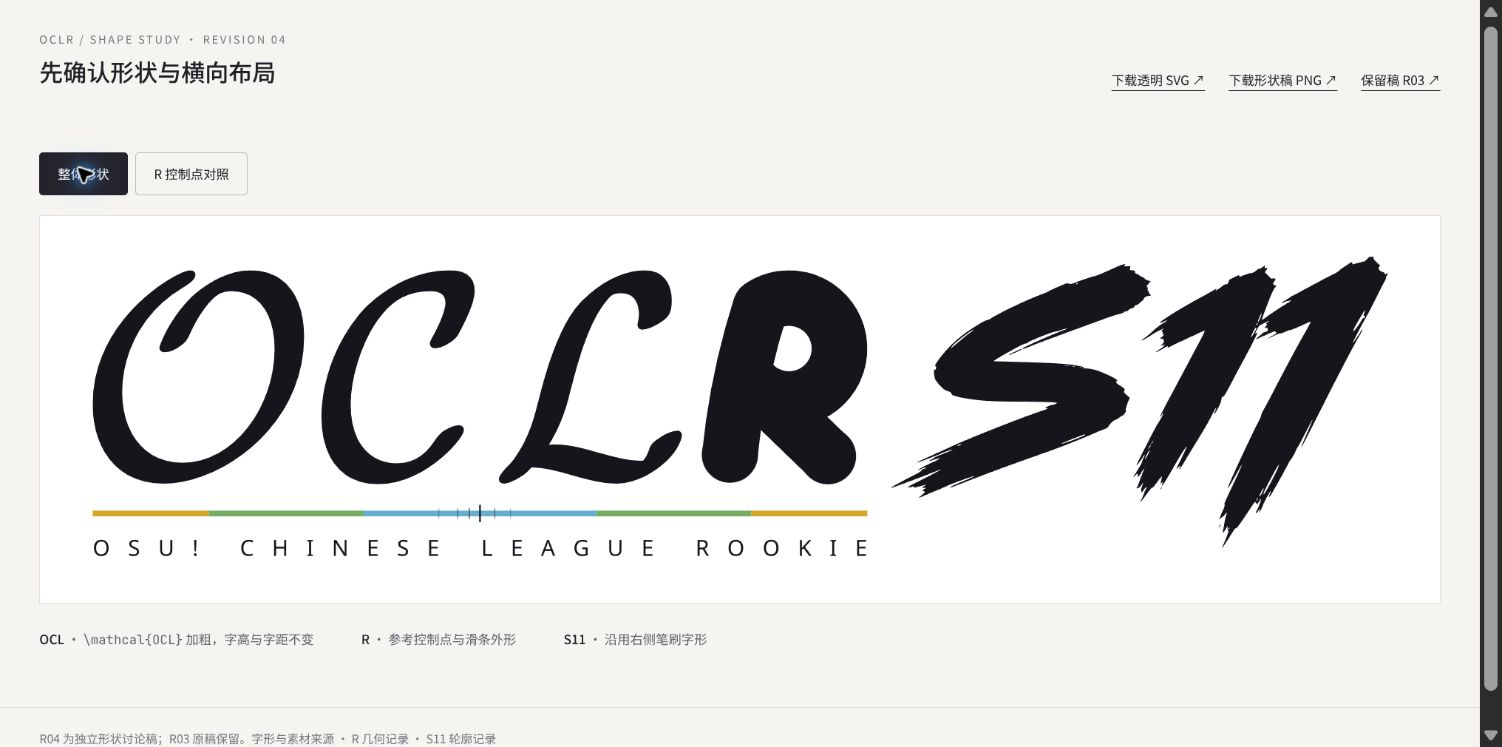
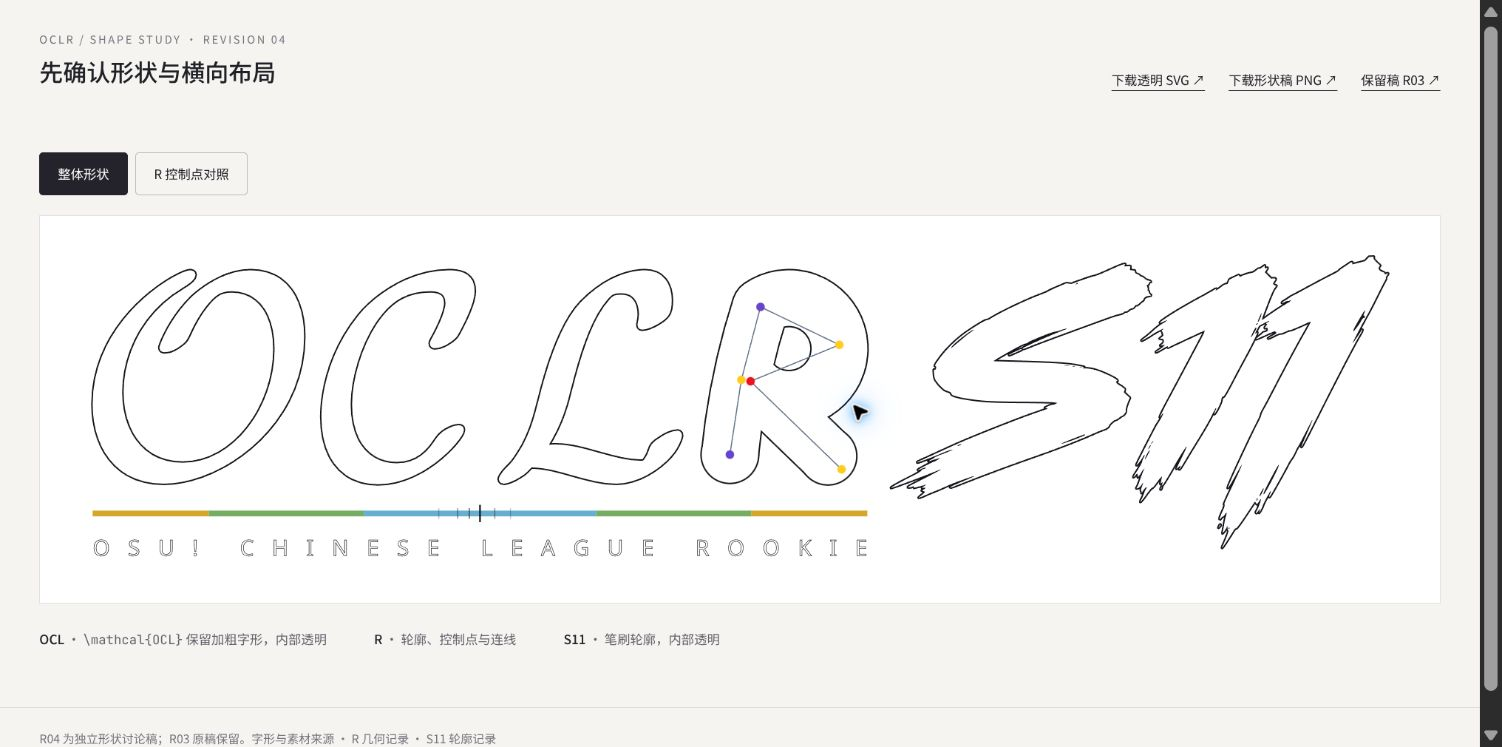
design(home): outline wordmark with transparent interiors and R handles

diff --git a/design/home-visual/revision-04/index.html b/design/home-visual/revision-04/index.html
@@ -16,8 +16,8 @@
   <main>
     <div class="controls" role="group" aria-label="预览内容"><button type="button" data-view="composition" aria-pressed="true">整体形状</button><button type="button" data-view="geometry" aria-pressed="false">R 控制点对照</button></div>
     <section id="composition" aria-label="整体形状">
-      <figure class="stage"><img src="shape-board.svg" width="1700" height="470" alt="单色 OCL 花体大写、参考滑条 R 与右侧笔刷 S11；准度条位于主字母与英文全名之间"></figure>
-      <div class="notes"><p><strong>OCL</strong> · <code>\mathcal{OCL}</code> 加粗，字高与字距不变</p><p><strong>R</strong> · 参考控制点与滑条外形</p><p><strong>S11</strong> · 沿用右侧笔刷字形</p></div>
+      <figure class="stage"><img src="oclr-s11-shapes.svg" width="1700" height="470" alt="透明内部的 OCL、R 与 S11 轮廓，R 显示六个控制点和连接线"></figure>
+      <div class="notes"><p><strong>OCL</strong> · <code>\mathcal{OCL}</code> 保留加粗字形，内部透明</p><p><strong>R</strong> · 轮廓、控制点与连线</p><p><strong>S11</strong> · 笔刷轮廓，内部透明</p></div>
     </section>
     <section id="geometry" class="hidden" aria-label="R 控制点对照">
       <div class="geometry-grid"><figure><img src="sources/r-reference.png" width="497" height="559" alt="用户提供的 R 滑条编辑器截图"><figcaption>参考截图</figcaption></figure><figure><img src="r-geometry-review.svg" width="497" height="559" alt="使用相同坐标重建的 R 滑条与六个控制点"><figcaption>同一坐标系的矢量重建</figcaption></figure></div>

diff --git a/design/home-visual/revision-04/compose.py b/design/home-visual/revision-04/compose.py
@@ -52,6 +52,57 @@ def asset(filename, name, x, y, height):
     return svg, w * height / h
 
 
+def outline_asset(svg, prefix, stroke_growth, circle_growth=0):
+    """Vector silhouette difference: transparent interiors, never a white cover.
+
+    Subtract the original union from its expanded union, so overlapping R
+    track/end caps don't introduce internal seams. Re-key both copies' IDs.
+    """
+    x, y, w, h = map(float, svg.attrib['viewBox'].split())
+    pad = 12
+    original = list(svg)
+    mask = ET.Element(f'{{{NS}}}mask', {
+        'id': prefix + '-outline-mask', 'maskUnits': 'userSpaceOnUse',
+        'x': str(x-pad), 'y': str(y-pad), 'width': str(w+2*pad), 'height': str(h+2*pad),
+        'style': 'mask-type:luminance',
+    })
+    for layer, color, growth in [('outer', '#fff', stroke_growth), ('inner', '#000', 0)]:
+        group = ET.SubElement(mask, f'{{{NS}}}g', color=color, fill=color)
+        copies = [copy.deepcopy(e) for e in original]
+        mapping = {e.attrib['id']: f'{prefix}-{layer}-{e.attrib["id"]}'
+                   for child in copies for e in child.iter() if 'id' in e.attrib}
+        for child in copies:
+            for e in child.iter():
+                if 'id' in e.attrib:
+                    e.set('id', mapping[e.attrib['id']])
+                for key, value in list(e.attrib.items()):
+                    if key.endswith('href') and value.startswith('#'):
+                        e.set(key, '#' + mapping[value[1:]])
+                    elif key in ('fill', 'stroke') and value != 'none':
+                        e.set(key, color)
+                tag = e.tag.rsplit('}', 1)[-1]
+                if tag == 'path':
+                    if e.get('fill') != 'none':
+                        e.set('fill', color)
+                    width = float(e.get('stroke-width', '0'))
+                    if width or growth:
+                        e.set('stroke', color)
+                        e.set('stroke-width', str(width + growth))
+                        e.set('stroke-linejoin', 'round')
+                elif tag == 'circle' and growth:
+                    e.set('r', str(float(e.get('r')) + circle_growth))
+            group.append(child)
+    for child in original:
+        svg.remove(child)
+    defs = ET.SubElement(svg, f'{{{NS}}}defs')
+    defs.append(mask)
+    ET.SubElement(svg, f'{{{NS}}}rect', {
+        'x': str(x-pad), 'y': str(y-pad), 'width': str(w+2*pad), 'height': str(h+2*pad),
+        'fill': 'currentColor', 'mask': f'url(#{prefix}-outline-mask)',
+    })
+    svg.set('overflow', 'visible')
+
+
 def full_name(x, baseline, width):
     font = TTFont('/usr/share/fonts/noto/NotoSans-Regular.ttf')
     glyphs, cmap = font.getGlyphSet(), font.getBestCmap()
@@ -65,6 +116,7 @@ def full_name(x, baseline, width):
         glyphs[cmap[ord(c)]].draw(pen)
         if pen.getCommands():
             ET.SubElement(group, f'{{{NS}}}path', d=pen.getCommands(),
+                          fill='none', stroke='currentColor', **{'stroke-width': '22'},
                           transform=f'translate({x:.4f} {baseline}) scale({scale} {-scale})')
         x += advance + spacing
     return group
@@ -83,12 +135,24 @@ ET.SubElement(svg, f'{{{NS}}}desc', id='wordmark-desc').text = (
 
 ocl, ocl_width = asset('ocl-mathcal.svg', 'OCL-mathcal', 64, 66, 260)
 weight_mathcal(ocl)
+outline_asset(ocl, 'ocl', .1)
 svg.append(ocl)
 r_x = 64 + ocl_width + 24
 r, r_width = asset('r-shape.svg', 'R-reference-slider', r_x, 66, 260)
+controls = copy.deepcopy(next(e for e in r if e.get('id') == 'r-control-points'))
+for child in list(r):
+    if child.get('display') == 'none':
+        r.remove(child)
+outline_asset(r, 'r', 8, 4)
+controls.attrib.pop('display')
+for e in controls:
+    if e.tag.endswith('polyline'):
+        e.set('stroke-width', '3')
+r.append(controls)
 svg.append(r)
 left_width = r_x + r_width - 64
 s11, _ = asset('s11-brush.svg', 'S11-original-brush', 1030, 46, 361)
+outline_asset(s11, 's11', 43)
 svg.append(s11)
 
 # Horizontal osu! hit-error bar: symmetry, centre, and restrained hit marks.

diff --git a/design/home-visual/README.md b/design/home-visual/README.md
@@ -82,3 +82,5 @@ The follow-up weight adjustment thickens only OCL inside each original glyph bou
 `python design/home-visual/revision-04/compose.py` renders the final 1700×470 shape board and checks unique IDs and the absence of raster, text, filter or script nodes. The R screenshot geometry has measured-point, circular-arc and selected-outline checks recorded in its source document; the S11 tracing has an original-size contour comparison. Chrome loaded the composition and R comparison and exercised both view controls; the preview had no horizontal overflow at an observed 390 CSS-pixel viewport. The temporary viewport override was reset. The final calligraphic version was rendered and visually checked again. `node --check` and `git diff --check` pass.
 
 These are standalone design artifacts. No application code, catalogs, configuration or R03 assets changed; application/DB tests and production builds were not run. Visual acceptance and homepage integration remain separate.
+
+R04 display update: the current wordmark uses transparent outline interiors, including the existing weighted OCL silhouette and brush S11. The R control points and connecting polygon are visible directly in the composition. Vector luminance masks preserve the slider silhouette union without white cover shapes; the transparent SVG and white review board are separate exports.

diff --git a/design/home-visual/revision-04/sources/SHAPE-SOURCES.md b/design/home-visual/revision-04/sources/SHAPE-SOURCES.md
@@ -24,3 +24,7 @@ python design/home-visual/revision-04/compose.py
 ```
 
 R 的独立重建步骤见几何记录。组合脚本需要 Python 3、FontTools、Noto Sans Regular 与 librsvg；生成透明字标、白底 SVG / PNG，并检查矢量元素与 ID 唯一性。
+
+## 当前轮廓显示
+
+按后续要求，OCL、R、S11 与英文全名改为轮廓，内部保持透明；加粗后的 OCL 形状和既有排版保留。主字标直接显示 R 的六个原坐标控制点及控制折线。主字形通过纯矢量明度遮罩做外扩轮廓与原形状的差集，遮罩中的黑白是覆盖率数据，不是画布上的填充；导出的 `oclr-s11-shapes.svg` 没有白底或白色遮盖。`shape-board.svg/png` 仅为白底预览。
